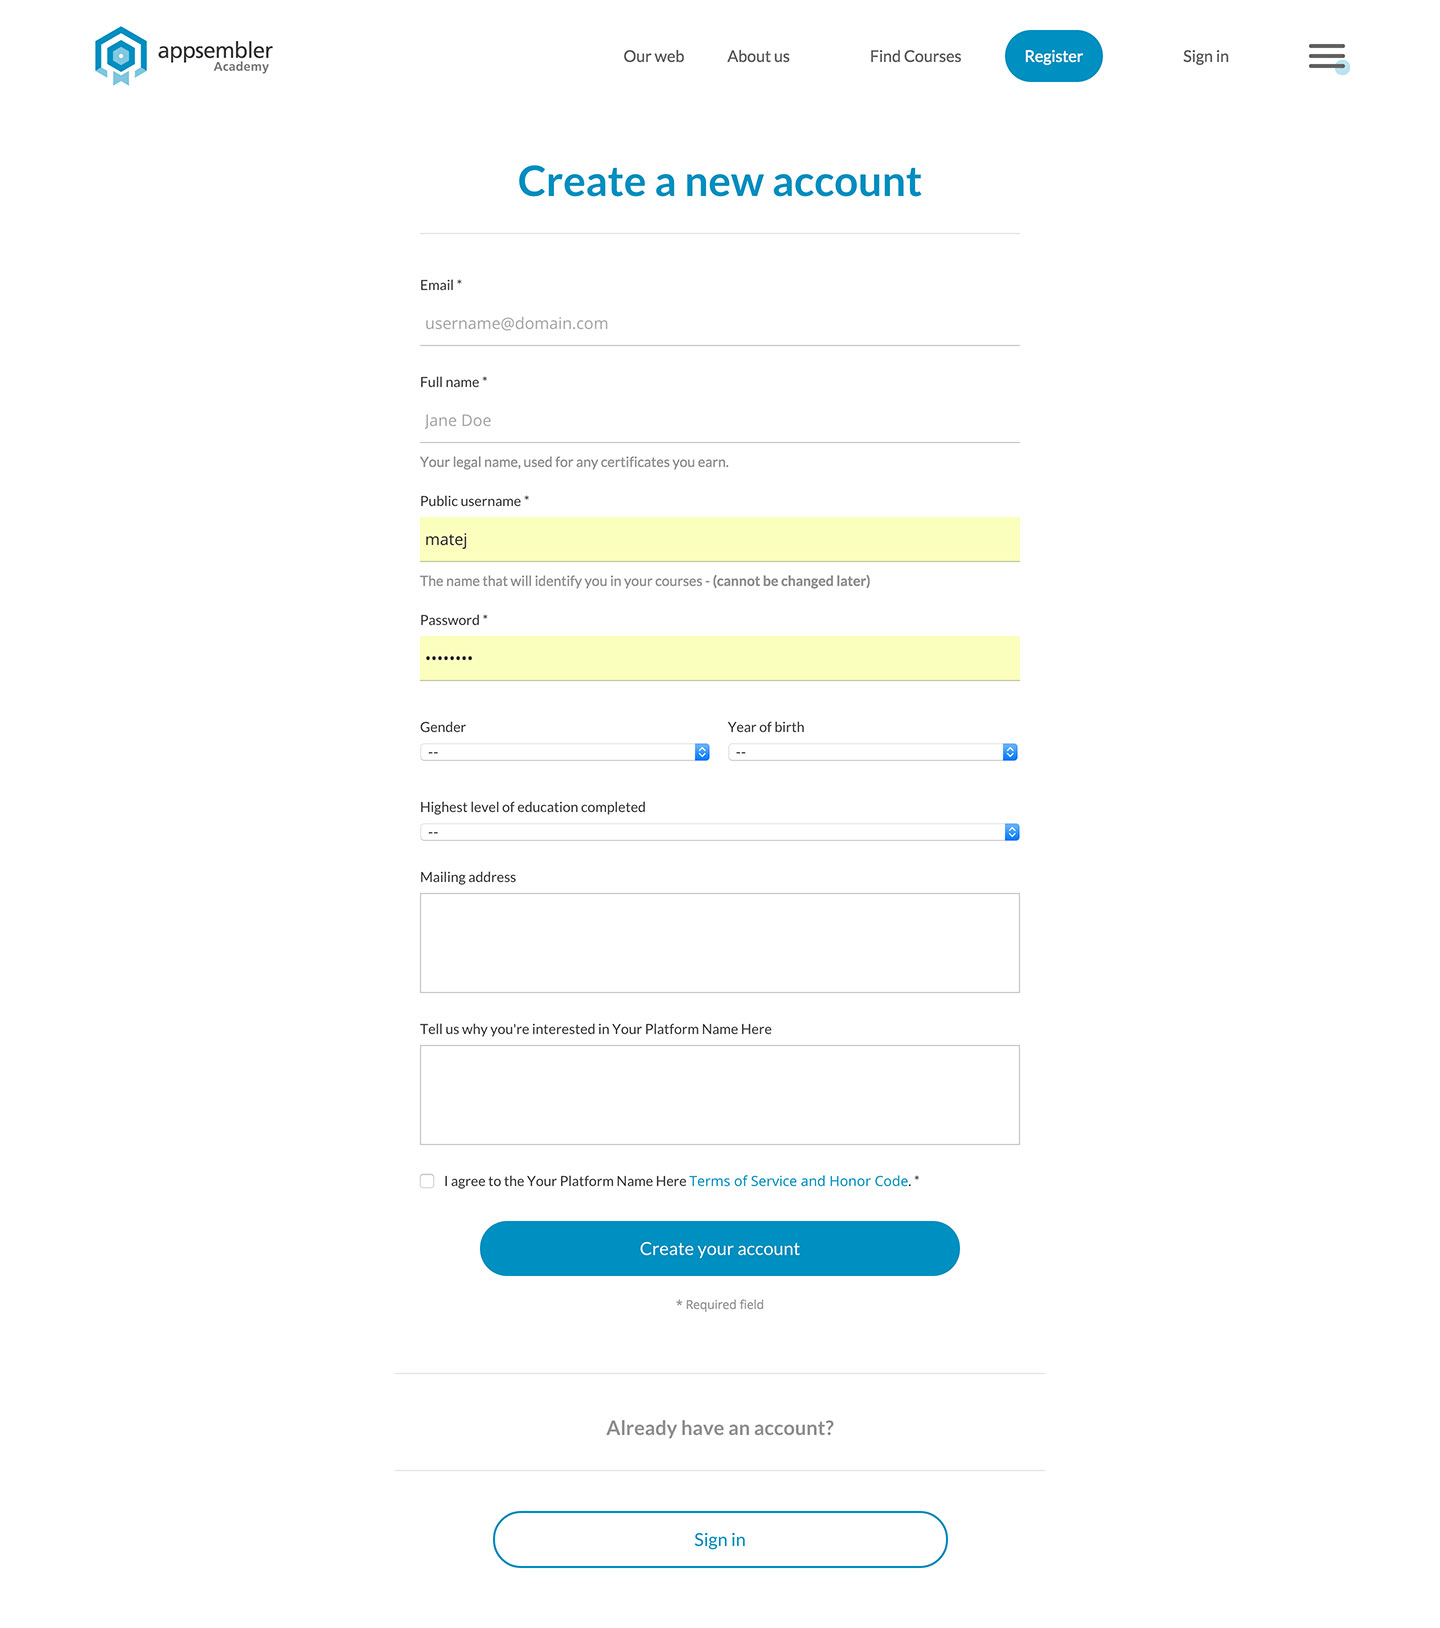
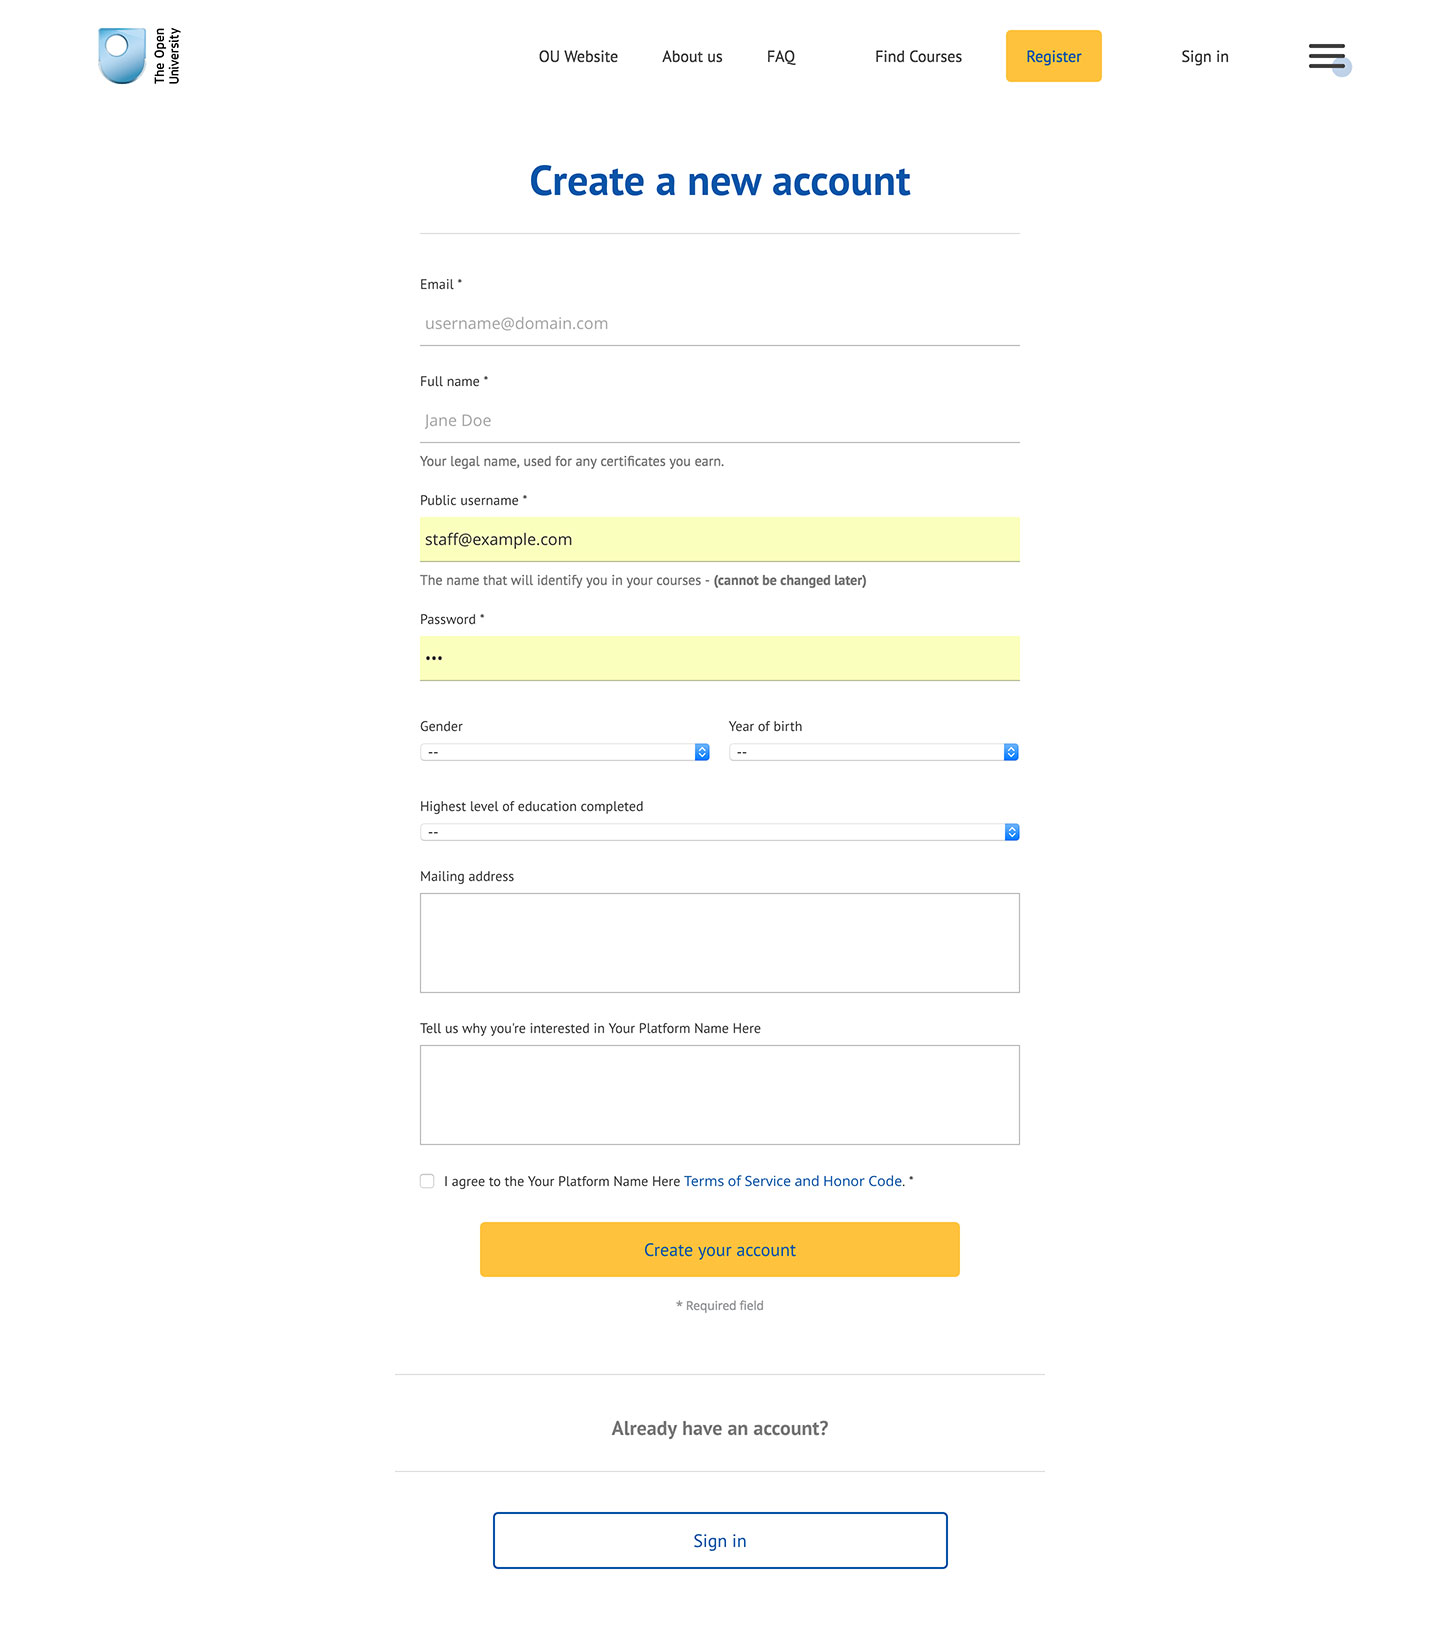
update theme screenshots

diff --git a/templates/theme-variables.html b/templates/theme-variables.html
@@ -104,11 +104,11 @@
   <%
     return {
       'footer_logo' : get_brand_logos()['icon_black'], ## leave as is, defined above. Can be changed to something custom if needed.
-      'footer_copyright_text' : '© 2016 Company Name. All rights reserved.',  ## leave value empty if you don't want it displayed.
+      'footer_copyright_text' : '© 2016 Open University. All rights reserved.',  ## leave value empty if you don't want it displayed.
       'display_edx_disclaimer' : True, ## bool value required
       'edx_disclaimer' : 'edX, Open edX and the edX and Open edX logos are trademarks or registered trademarks of edX Inc.', ## leave value empty if you don't want it displayed.
       'display_poweredby' : True, ## bool value required
-      'display_app_link' : True,
+      'display_app_link' : False,
       'app_url' : 'https://itunes.apple.com/app/id1044418100'
     }
   %>

diff --git a/README.html b/README.html
@@ -58,11 +58,11 @@ The reason why we do compiling on our own is because we include the main.css fil
 <p>Register page</p>
 
 <figure>
-<img src="/theme-faq.jpg?raw=true" alt="Alt text" title="Open edX Default Theme Screenshot" />
+<img src="/theme-dashboard.jpg?raw=true" alt="Alt text" title="Open edX Default Theme Screenshot" />
 <figcaption>Alt text</figcaption>
 </figure>
 
-<p>FAQ page using the following blocks: hero-section&#8211;01, plain-content&#8211;01, expanding-sections-list&#8211;01</p>
+<p>Dashboard page</p>
 
 <h1 id="themeauthoring">Theme Authoring</h1>
 

diff --git a/README.md b/README.md
@@ -50,9 +50,9 @@ Single course about page using the following blocks: course-about-01, line separ
 
 Register page
 
-![Alt text](/theme-faq.jpg?raw=true "Open edX Default Theme Screenshot")
+![Alt text](/theme-dashboard.jpg?raw=true "Open edX Default Theme Screenshot")
 
-FAQ page using the following blocks: hero-section-01, plain-content-01, expanding-sections-list-01
+Dashboard page
 
 
 Theme Authoring
